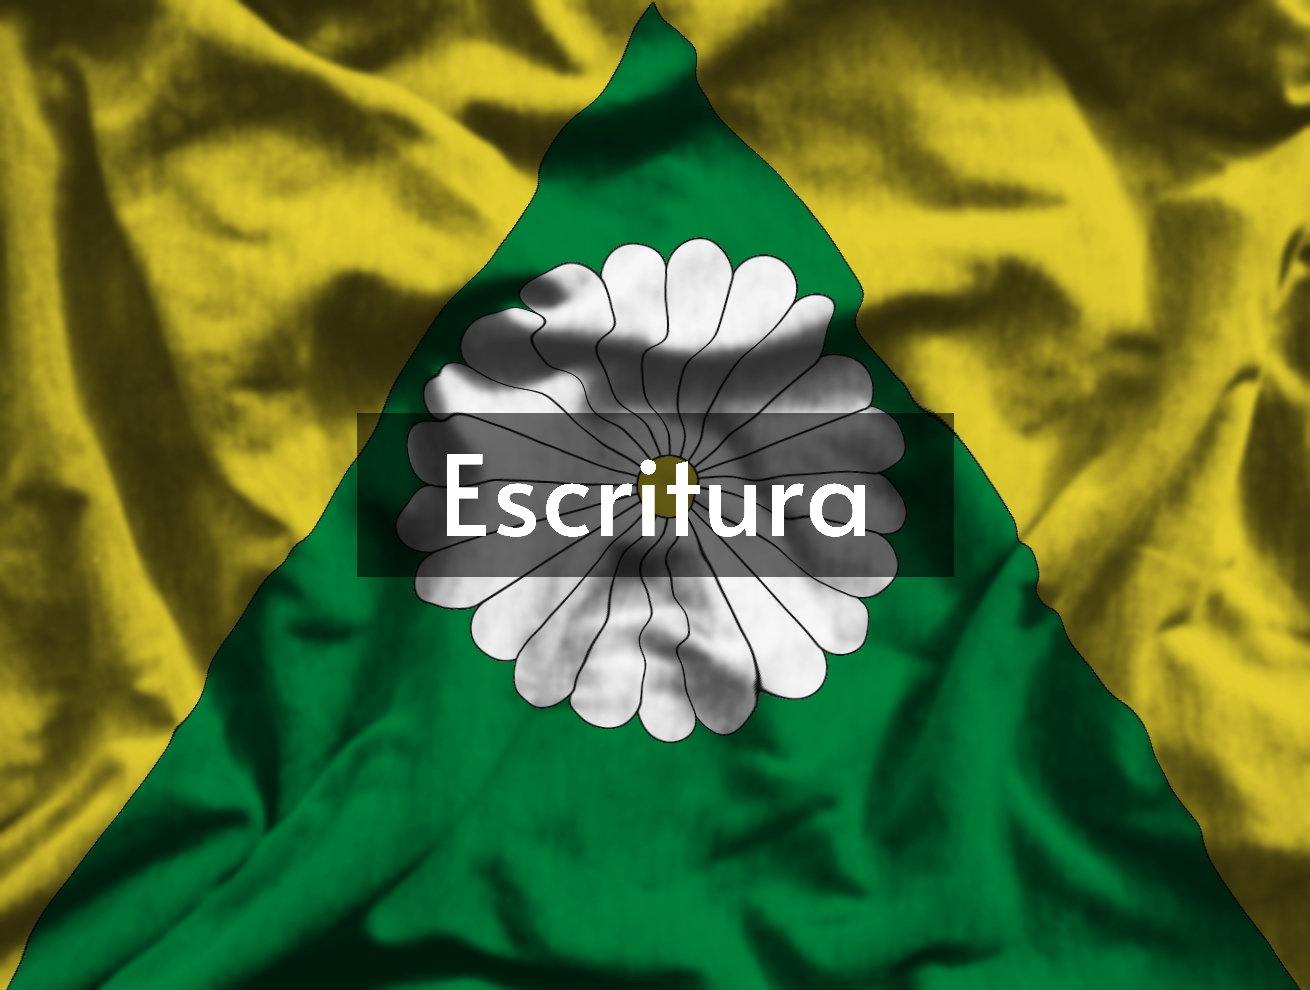
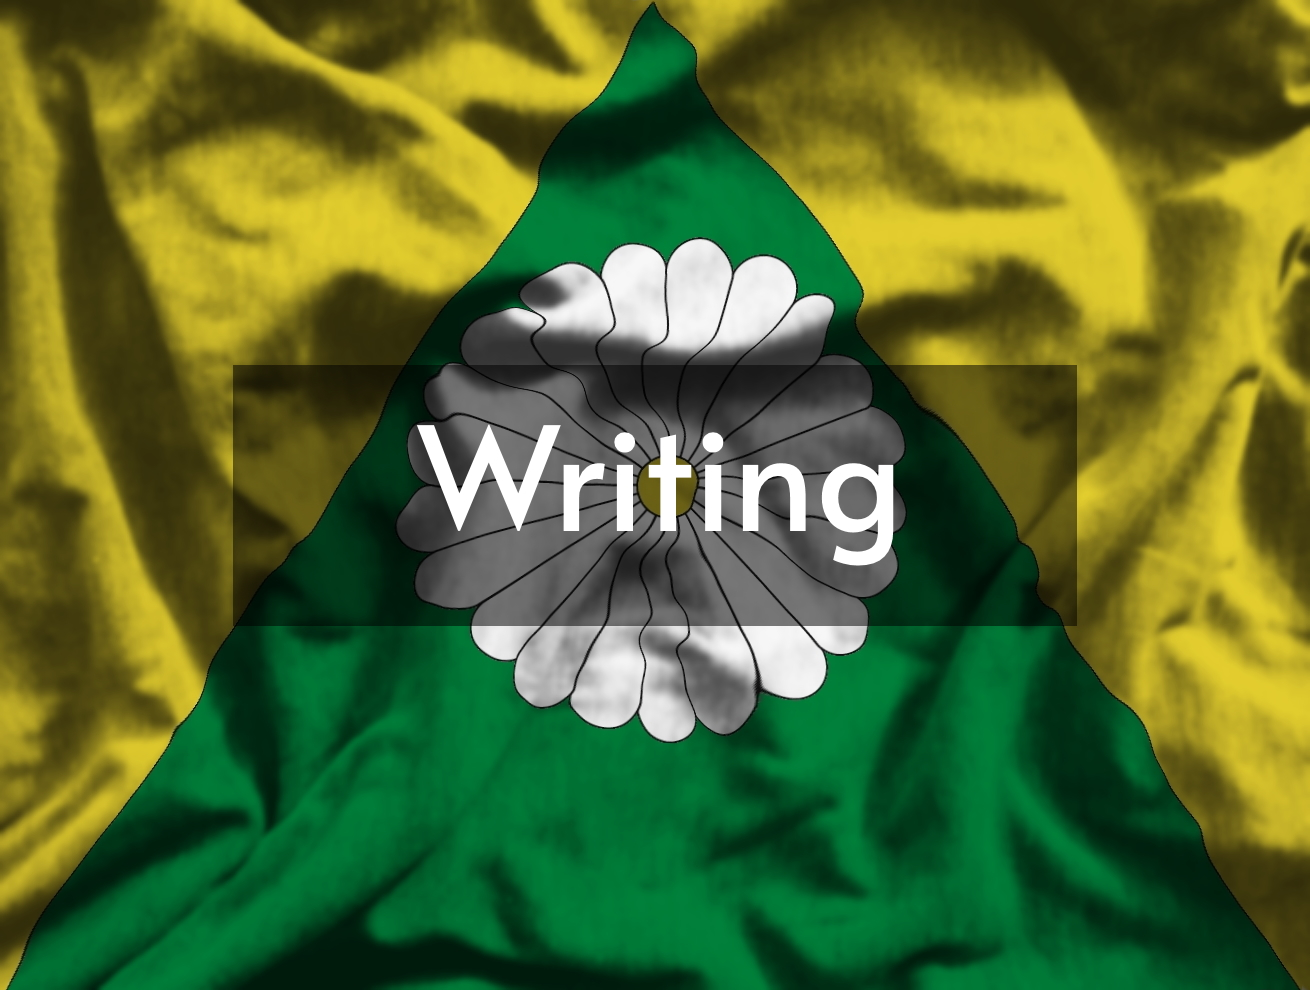
Updating files

Changed region(s): [[0.1527, 0.3636, 0.8244, 0.6364]]

diff --git a/index.html b/index.html
@@ -1,12 +1,12 @@
 <!DOCTYPE html>
-<html lang="es">
+<html lang="en">
 <head>
   <meta charset="UTF-8">
   <meta name="viewport" content="width=device-width, initial-scale=1.0, user-scalable=no">
   <meta http-equiv="X-UA-Compatible" content="ie=edge">
   <script src="https://cdn.jsdelivr.net/npm/prefixfree@1.0.0/prefixfree.min.js"></script>
   <link rel="stylesheet" href="https://cdnjs.cloudflare.com/ajax/libs/font-awesome/5.15.1/css/all.min.css">
-  <link href="https://cdn.jsdelivr.net/npm/bootstrap@5.0.0-beta1/dist/css/bootstrap.min.css" rel="stylesheet" integrity="sha384-giJF6kkoqNQ00vy+HMDP7azOuL0xtbfIcaT9wjKHr8RbDVddVHyTfAAsrekwKmP1" crossorigin="anonymous">
+  <link href="https://cdn.jsdelivr.net/npm/bootstrap@5.0.0-beta3/dist/css/bootstrap.min.css" rel="stylesheet" integrity="sha384-eOJMYsd53ii+scO/bJGFsiCZc+5NDVN2yr8+0RDqr0Ql0h+rP48ckxlpbzKgwra6" crossorigin="anonymous">
   <link rel="stylesheet" href="landing.css">
   <title>Landing page | Miguel Rojas</title>
   <meta name="description" content="Biología, escritura y modelos matemáticos..." />
@@ -20,7 +20,7 @@
     <div class="row">
       <div class="col text-center">
         <h1>Miguel Rojas</h1>
-        <h2>Biología, escritura y modelos matemáticos...</h2>
+        <h2>Biology, writing and mathematical models</h2>
       </div>
     </div>
   </div>
@@ -28,12 +28,9 @@
   <!-- Links -->
   <div class="container d-flex align-items-center d-flex align-items-sm-center align-items-md-center align-items-lg-center">
     <div class="gallery-wrap d-flex flex-column flex-md-row flex-lg-row">
-      <a href="https://itsmiguelrojas.github.io/blog/" class="item item-1">
-      </a>
-      <a href="https://itsmiguelrojas.github.io/lekanto/" class="item item-2">
-      </a>
-      <a class="item item-3">
-      </a>
+      <a href="https://itsmiguelrojas.github.io/blog/" class="item"></a>
+      <a href="https://itsmiguelrojas.github.io/data_portfolio/" class="item"></a>
+      <a href="https://itsmiguelrojas.github.io/lekanto/" class="item"></a>
     </div>
   </div>
 
@@ -45,8 +42,8 @@
     <p>&copy; <span id="year"></span> Miguel Rojas. All rights reserved</p>
   </footer>
 
-  <script src="https://code.jquery.com/jquery-3.5.1.min.js" integrity="sha256-9/aliU8dGd2tb6OSsuzixeV4y/faTqgFtohetphbbj0=" crossorigin="anonymous"></script>
-  <script src="https://cdn.jsdelivr.net/npm/bootstrap@5.0.0-beta1/dist/js/bootstrap.bundle.min.js" integrity="sha384-ygbV9kiqUc6oa4msXn9868pTtWMgiQaeYH7/t7LECLbyPA2x65Kgf80OJFdroafW" crossorigin="anonymous"></script>
+  <script src="https://cdn.jsdelivr.net/npm/jquery@3.6.0/dist/jquery.min.js"></script>
+  <script src="https://cdn.jsdelivr.net/npm/bootstrap@5.0.0-beta3/dist/js/bootstrap.bundle.min.js" integrity="sha384-JEW9xMcG8R+pH31jmWH6WWP0WintQrMb4s7ZOdauHnUtxwoG2vI5DkLtS3qm9Ekf" crossorigin="anonymous"></script>
   <script>document.getElementById("year").innerHTML = new Date().getFullYear();</script>
 
 </body>

diff --git a/landing.css b/landing.css
@@ -1,7 +1,11 @@
 @import url('https://fonts.googleapis.com/css2?family=Alata&display=swap');
 
+* {
+  color: rgba(255,255,255,0.6);
+}
+
 body {
-  background-color: #FFFFAB;
+  background-color: #778899;
 }
 
 h1 {
@@ -11,7 +15,6 @@ h1 {
 }
 
 h2 {
-  color: rgba(33,33,33,0.6);
   font-size: 1em;
 }
 
@@ -38,38 +41,35 @@ h2 {
 }
 
 .item:hover {
-  flex-basis: 100px;
+  flex-basis: 200px;
 }
 
-.item-1 {
+.item:nth-child(1) {
   background-image: url('img/leaf.jpg');
 }
 
-.item-2 {
-  background-image: url('img/flag.jpg');
+.item:nth-child(2) {
+  background-image: url('img/graphs.jpg');
 }
 
-.item-3 {
-  background-image: url('img/graphs.jpg');
-  filter: brightness(34%);
-  cursor: not-allowed;
+.item:nth-child(3) {
+  background-image: url('img/flag.jpg');
 }
 
 .footer {
   padding-top: 1em;
-  color: rgba(33,33,33,0.6);
 }
 
 .footer .fab {
   text-decoration: none;
-  color: rgba(33,33,33,0.6);
   font-size: 1.25em;
   margin: 0 1em;
+  color: rgba(255,255,255,0.6);
   transition: color ease 0.8s
 }
 
 .footer .fab:hover {
-  color: #0000FF;
+  color: #FCD303;
 }
 
 @media (max-width:767.98px) {
